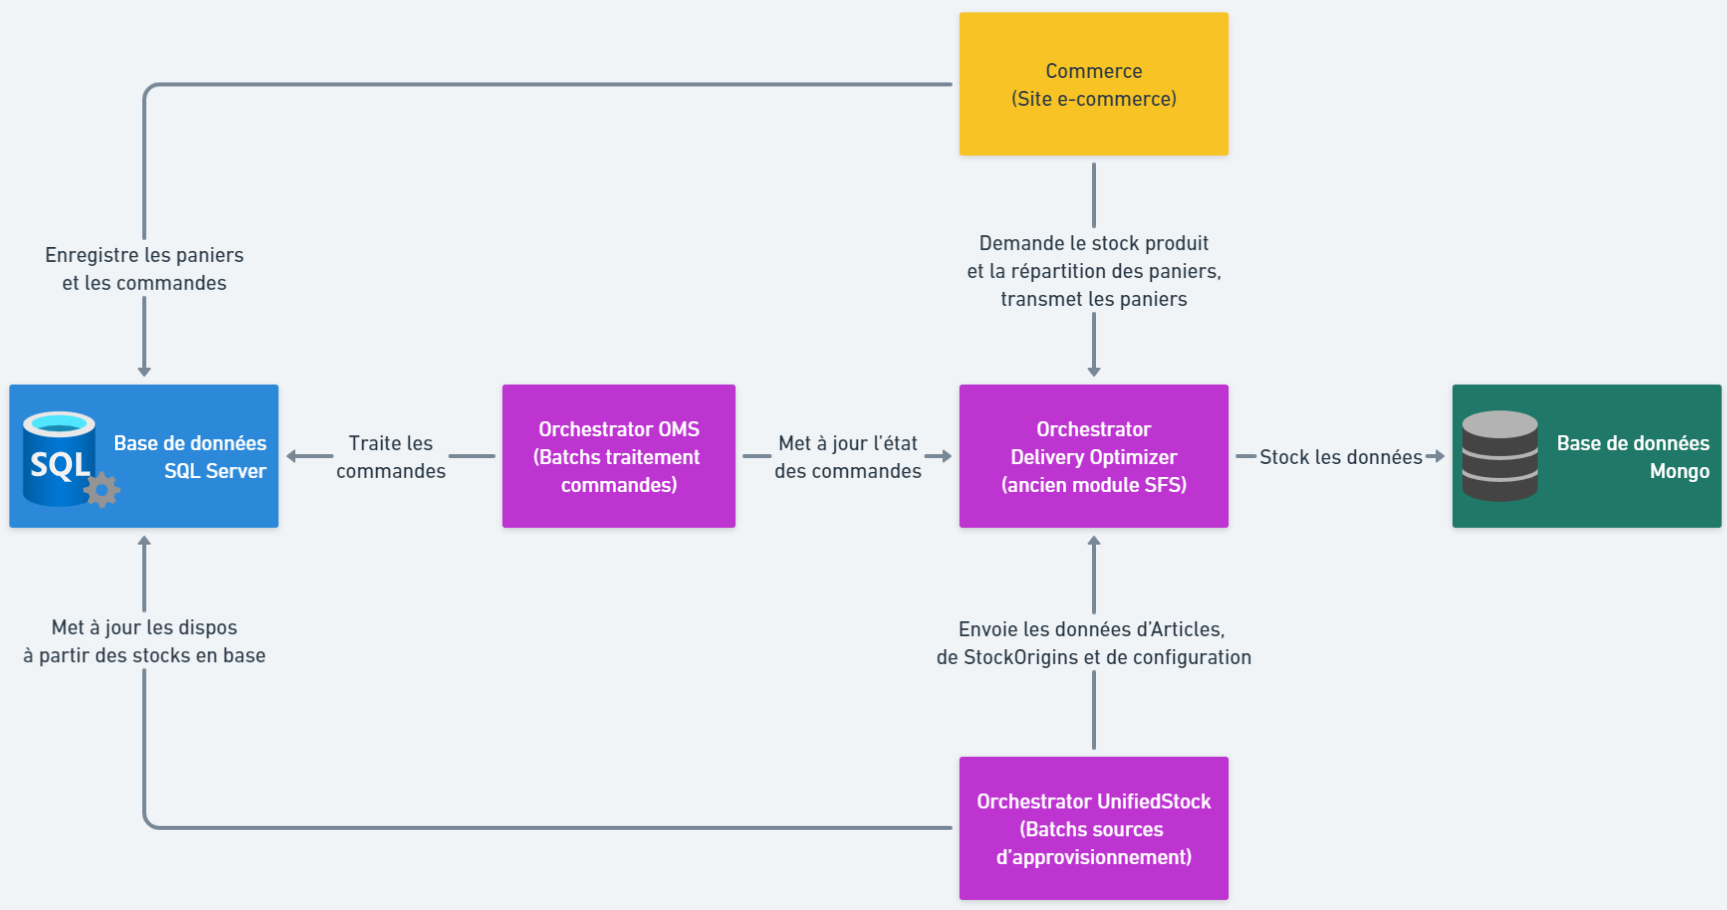
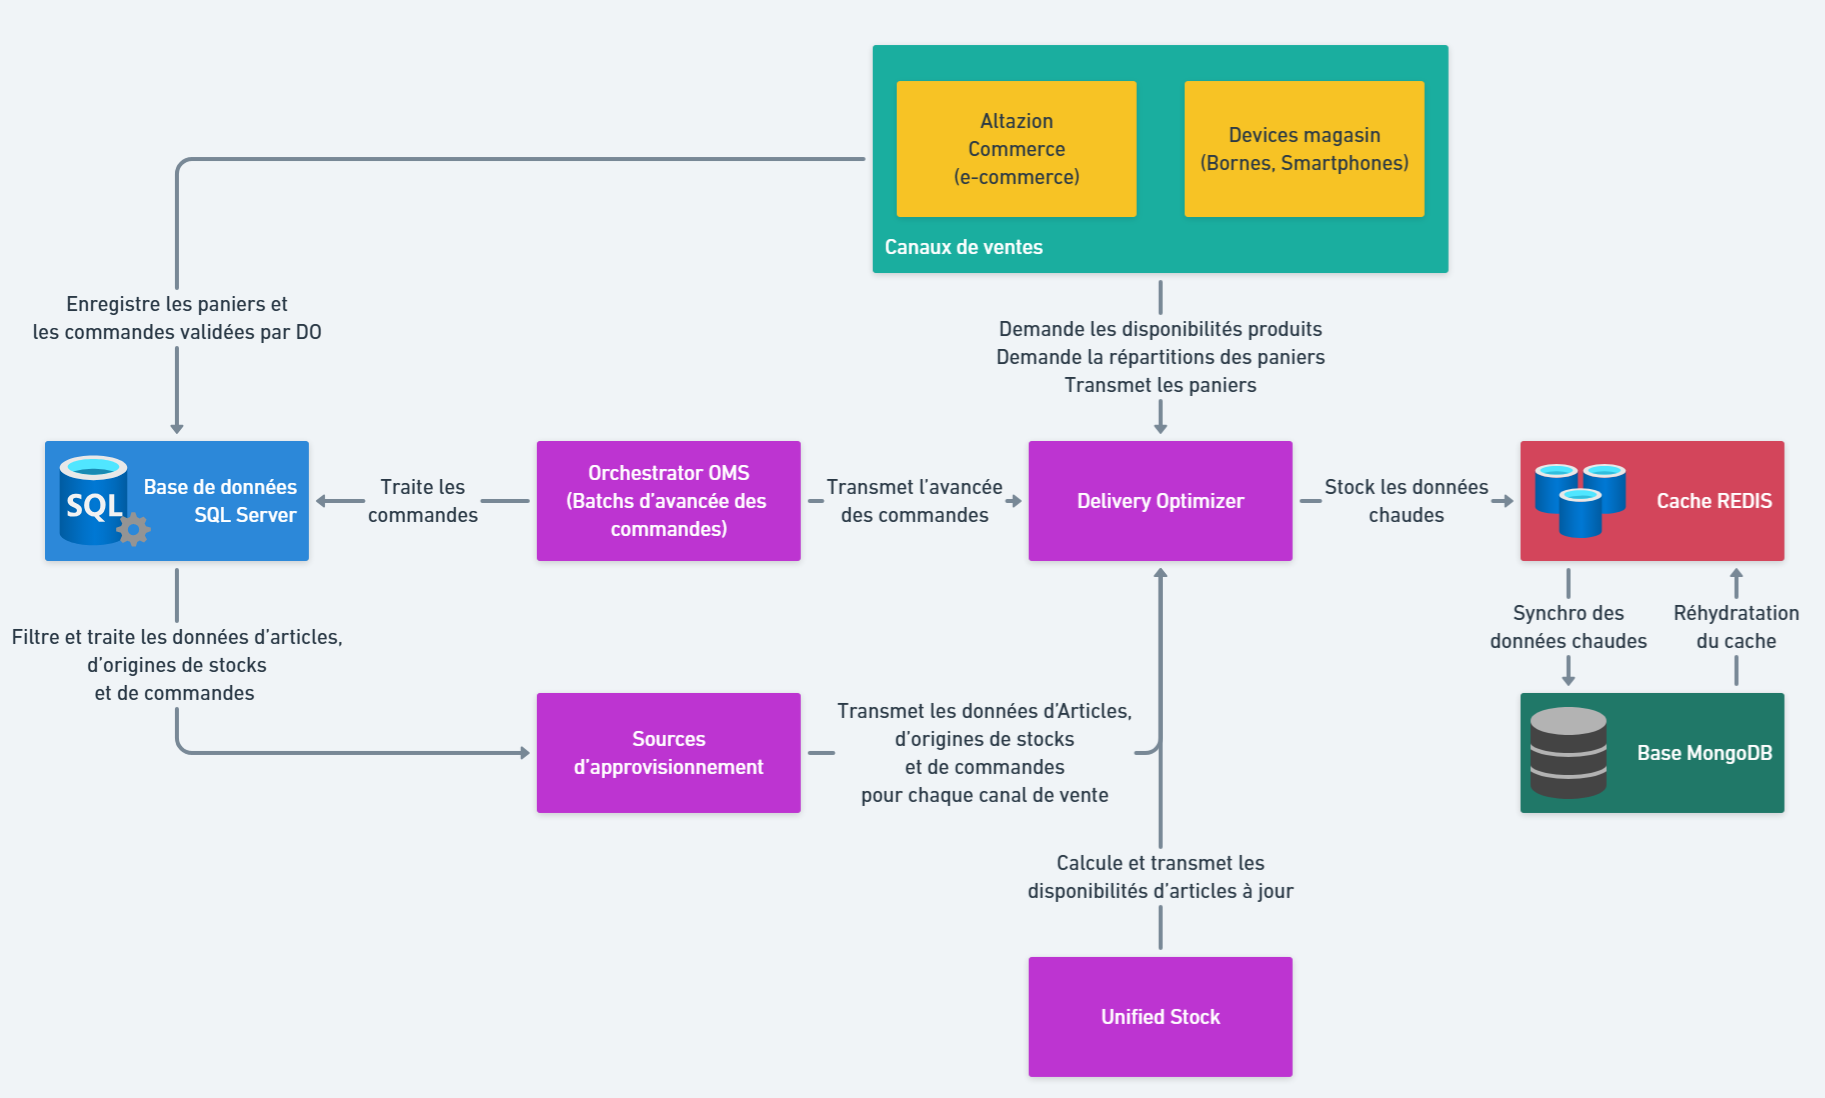
Mise à jour doc Delivery Optimizer

Changed region(s): [[0.0, 0.0, 1.0, 1.0], [0.0, 0.2462, 0.1841, 0.3385]]

diff --git a/orchestrator/delivery-optimizer/commandes.md b/orchestrator/delivery-optimizer/commandes.md
@@ -1,20 +1,34 @@
 # Gestion des commandes
 
-## Ajout/Mise à jour d'une commande
+## Synchronisation périodique interne des commandes avec MongoDB
+
+Les commandes stockées dans REDIS doivent être régulièrement synchronisées avec MongoDB afin de garantir la persistance des données.
+Pour cela Delivery Optimizer déclenche un batch de synchronisation toutes les dix minutes. Celui-ci va, pour chaque raison juridique (tenant) exécuter les opérations suivantes :
+
+- Regarder si sa __ConfigDo.enableInternalOrderSync__ est positionnée à true, si non, le traitement s'arrête pour se tenant et le batch passe au tenant suivant.
+- Récupérer les commandes en cours sur REDIS.
+- Enregistrer ces commandes dans MongoDB.
+
+Vous pouvez désactiver cette synchronisation automatique en positionnant __ConfigDo.enableInternalOrderSync__ à false.
+
+## Upsert (Ajout/Mise à jour) d'une commande
 
 __POST : {tenantId}/order__
 
-Cette fonction reçoit un objet de type __Order__ (en format JSON dans le body de la requête) et l'ajoute en base si elle n'existe pas ou la __redéfini entièrement__ si elle existe en patchant les __Articles__ et __StockOrigins__ concernés.
+Cette fonction reçoit un objet de type __Order__ (en format JSON dans le body de la requête) et l'ajoute en base si elle n'existe pas ou la __redéfini entièrement__ si elle existe.
 
 ### Exemple d'appel API
 
-L'exemple ci-dessous décrit l'objet __Order__ à passer dans le body et les champs qu'il contient. Tous les champs sont __obligatoires__
+L'exemple ci-dessous décrit l'objet __Order__ à passer dans le body et les champs qu'il contient. Tous les champs excepté __expiresAt__ sont __obligatoires__
 
 ```json
 {
   "orderId": "3fa85f64-5717-4562-b3fc-2c963f66afa6",
+  "tenantId": 0,
+  "lastUpdated": "2025-09-22T10:01:20.624Z",
+  "expiresAt": "2025-09-23T11:01:20.624Z",
   "type": "Order",
-  "details": [
+  "lines": [
     {
       "code": "FRA:MAG:0125",
       "artGuid": "c420a0b0-fd50-446a-b2e0-18ab3bf4c460",
@@ -28,8 +42,8 @@ L'exemple ci-dessous décrit l'objet __Order__ à passer dans le body et les cha
   ]
 }
 ```
-Le champ __orderId__ contient le Guid de la commande et __type__ contient le type de commande (Order, Cart ou ExternalOrder).
-Le contenu de la commande se trouve dans le champ __details__. Il s'agit d'un tableau de __OrderDetail__ structuré comme ceci :
+Le champ __orderId__ contient le Guid de la commande, __tenantId__ l'identifiant du client. __type__ correspond au le type de commande (Order, Cart ou ExternalOrder). __lastUpdated__ indique la dernière date de modification de la commande et __expiresAt__ (optionnel) sa date d'expiration si elle est renseignée.
+Le contenu de la commande se trouve dans le champ __lines__. Il s'agit d'un tableau de __OrderLine__ structuré comme ceci :
  - __code__ qui correspond au code de l'origine de stock qui traitera l'article
  - __artGuid__, l'identifiant unique de l'article à traiter
  - __qty__, la quantité d'article à expédier
@@ -37,17 +51,13 @@ Le contenu de la commande se trouve dans le champ __details__. Il s'agit d'un ta
 
 ### Réponse du serveur
 
-La méthode renvoie un booléen pour indiquer le succès de l'opération.
+La méthode renvoie un booléen : True si la commande a été ajoutée, false si elle existait déjà et a été modifiée
 
 ## Replacement de toutes les commandes
 
-__PATCH : {tenantId}/orders__
+__PUT : {tenantId}/orders__
 
-Cette fonction reçoit un tableau d'objets de type __Order__ (en format JSON dans le body de la requête). Elle permet de remplacer __toutes__ les commandes contenues dans les __Articles__ et __StockOrigins__ par celles envoyées dans le body.
-
-Un paramètre "isFull" peut-être passé dans la requête. Dans le cas d'une valeur à "true", la fonction va également supprimer __toutes__ les commandes précédemment enregistrées dans __l'intégralité__ des __Articles__ et __StockOrigins__.
-
-__Attention :__ Cette méthode n'est à utiliser que si vous avez besoin de réinitialiser les commandes dans Delivery Optimizer. De plus, le passage du paramètre isFull à "true" peut entrainer des lenteurs importantes sur la base. Cette méthode est donc à utiliser avec précaution et en dehors des heures de traffic importants.
+Cette fonction reçoit un tableau d'objets de type __Order__ (en format JSON dans le body de la requête). Elle permet de remplacer __toutes__ les commandes contenues dans les bases Redis et Mongo par celles envoyées dans le body.
 
 ## Suppression d'une commande
 
@@ -55,20 +65,20 @@ __DELETE : {tenantId}/order/byid/{idCommande}__
 
 Supprime une commande par son Guid. Cette méthode est typiquement utilisée lorsqu'un client décide de supprimer un panier en cours ou que le panier expire sur le site.
 
-La méthode renvoie un booléen pour indiquer le succès de l'opération.
+La méthode renvoie un booléen : True si la commande a été trouvée et supprimée, false si elle n'existe pas en base.
 
 ## Suppression d'une commande par code d'origine de stock
 
 __DELETE : {tenantId}/order/byid/{idCommande}/code/{code}__
 
-Lorsqu'une expédition est effectuée par une origine de stock il est nécessaire de supprimer la partie de la commande associée à cet emplacement (__OrderDetail__) afin d'en réduire la saturation. Pour cela on passe le tenantId, l'id de la commande ainsi que le code de l'origine de stock.
+Lorsqu'une expédition est effectuée par une origine de stock il est nécessaire de supprimer la partie de la commande associée à cet emplacement (__OrderLine__) afin d'en réduire la saturation. Pour cela on passe le tenantId, l'id de la commande ainsi que le code de l'origine de stock.
 
-Il est également judicieux d'utiliser cette méthode pour supprimer une commande de type e-resa (avec retrait en magasin) puisse que l'intégralité de la commande est expédiée par une origine de stock magasin dont on connait le code.
+Il est également judicieux d'utiliser cette méthode pour supprimer une commande de type e-resa (avec retrait en magasin) puisse que l'intégralité de la commande est expédiée par une origine de stock magasin dont on connait le code. À noter qu'une commande qui ne contient plus aucune ligne est supprimée.
 
-La méthode renvoie un booléen pour indiquer le succès de l'opération.
+La méthode renvoie un booléen : True si la commande a été trouvée et que les lignes ont été supprimées, false si elle n'existe pas en base.
 
 ## Récupération d'une commande par son Id
 
 __GET : {tenantId}/order/{orderId}__
 
-Permet d'obtenir un objet __Order__ décrivant l'état actuel d'une commande ou d'un panier ayant été enregistrée en base dans les __Articles__ et __StockOrigins__. L'état d'une commande varie au fur et à mesure que les __OrderDetail__ qui la compose sont expédiés.
+Permet d'obtenir un objet __Order__ décrivant l'état actuel d'une commande ou d'un panier ayant été enregistrée en base dans les __Articles__ et __StockOrigins__. L'état d'une commande varie au fur et à mesure que les __OrderLine__ qui la compose sont expédiés.

diff --git a/orchestrator/delivery-optimizer/presentationmodule.md b/orchestrator/delivery-optimizer/presentationmodule.md
@@ -5,7 +5,7 @@ Le module Delivery Optimizer (DO) intervient dans le cadre du commerce unifié e
 
 De cette façon, Delivery Optimizer permet par exemple d'expédier une partie d'une commande depuis un entrepôt et une autre depuis un ou plusieurs magasins. Le but étant de minimiser le nombre d'envois tout en répondant à d'autres critères tel que minimiser la distance entre les expéditeurs et le client.
 
-Pour chaque source d'approvisionnement, le module permet de :
+Pour chaque canal de vente, le module permet de :
 - Gérer les articles et leurs disponibilités à la vente
 - Gérer et paramétrer les origines de stocks
 - Gérer les commandes et paniers
@@ -40,15 +40,21 @@ Pour le configurer vous aurez besoin de fournir les variables d’environnements
 - DATADOG_KEY, qui est la clef d’accès à votre serveur
 - DATADOG_TAGS (optionnel), qui contient les tags séparés par des virgules.
 
-Le système de log du module DO possède deux niveaux de verbosité, normal et full. Le mode normal activé par défaut ne log que les informations relatives aux opérations d'écritures (ajout d'une commande, import d’Articles ou de StockOrigins, etc..). Le mode full log également les informations relatives aux actions de lecture (calcul des stocks, lecture en base, etc..) et est activé si la variable d'environnement DATADOG_FULL_VERBOSITY est présente et positionnée à "true".
+L’intégralité des logs est affichée dans la console du module.
 
-Dans tous les cas, l’intégralité des logs est affichée dans la console du module.
+## Stockage des données
 
-## Base de données Mongo
-Le module est prévu pour fonctionner avec une base de données Mongo en version 4.2 ou supérieur compatible avec les notions de replica sets et de sharded clusters.
+### Stockage des données chaudes dans REDIS
 
-La connexion à la base Mongo se fait grâce aux deux variables d’environnement suivantes :
-- AZURE_APPCONFIG qui contient l’adresse du Azure App Configuration contenant la connection string de la base Mongo.
+L'intégralité des données est stockée dans un cache REDIS en version 6.0 ou supérieure permettant au module de proposer une réactivité en temps réel et des performances accrues par rapport à un stockage traditionnel en base de données. Afin d'éviter d'éventuelles pertes de données, ces données sont régulièrement synchronisé avec une base MongoDB. 
+
+### Stockage des données froides dans MongoDB
+Le module est prévu pour fonctionner avec une base de données Mongo en version 4.2 ou supérieure compatible avec les notions de replica sets et de sharded clusters. Cette base permet de garder une trâce durable des données ainsi que de réhydrater le cache REDIS en cas d'arrêt de ce dernier.
+
+### Connexion aux bases
+
+La connexion à la base Mongo et au cache REDIS se fait grâce aux deux variables d’environnement suivantes :
+- AZURE_APPCONFIG correspondant l’adresse du Azure App Configuration qui contient les connection strings des bases de données.
 - AZURE_APPCONFIG_ENV qui contient l’environnement duquel récupérer la clef (DEV, PRODUCTION, etc…).
 
 ## Déploiement

diff --git a/orchestrator/delivery-optimizer/cycledeviedonnees.md b/orchestrator/delivery-optimizer/cycledeviedonnees.md
@@ -1,19 +1,19 @@
 # Cycle de vie des données
 
-Afin d’utiliser le module, des données concernant les articles et les origines de stocks doivent être synchronisées avec vos composants. Les données sur les articles et les origines de stocks doivent ainsi être récupérées depuis votre base et formatées avant être envoyées au module Delivery Optimizer (DO) en format JSON. 
+Afin d’utiliser le module, des données concernant les articles, les origines de stocks et les commandes doivent être synchronisées avec vos composants. Ces données doivent ainsi être récupérées depuis votre système d'information et formatées avant être envoyées au module Delivery Optimizer (DO) en format JSON (Échange Informatique de Données ou EDI). 
 
-Les sources d’approvisionnement disponibles dans les outils OMS d’Altazion permettent de configurer avec précision l’export des Articles et StocksOrigins vers le module et d’automatiser la procédure.
+Les sources d’approvisionnement disponibles dans les outils logisitiques d’Altazion permettent de configurer avec précision l’export des articles, des origines de stocks et des commandes vers le module et d’automatiser la procédure en toute simplicité.
 
-La gestion des données nécessite le droit OMS.
+Si vous n'utilisez pas les outils d'Altazion, il existe de nombreux points API couvrant les besoins en CRUD des origines de stocks (StockOrigins), Articles et commandes (OrderDo) dont les fonctions sont détaillées dans le swagger. Toutefois les points expliqués ci-dessous sont les plus importants à implémenter pour garantir le fonctionnement du module.
 
-Il existe de nombreux points API couvrant les besoins en CRUD des StockOrigins et Articles dont les fonctions sont détaillées dans le swagger. Toutefois les points expliqués ci-dessous sont les plus importants à implémenter pour garantir le fonctionnement du module.
+__À noter que la gestion des données nécessite le droit OMS.__
 
-## Import total des StockOrigins et des Articles dans le module
+## Import total des StockOrigins et des Articles dans Delivery Optimizer (DO)
 
 Ces points API sont la principale source de données du module DO et sont indispensables à son bon fonctionnement. Cet import a pour effet d’exécuter une transaction supprimant toutes les données de la raison juridique concernée avant d’insérer les nouvelles données passées en format JSON.
 
 Il est recommandé :
-- De réaliser les imports d’Articles et de StockOrigins à la suite
+- De réaliser les imports à la suite
 - D’automatiser l’import de données durant une heure de faible utilisation du module (la nuit par exemple)
 - De disposer de méthodes robustes d’export de vos données depuis vos composants vers le module DO si vous n’utilisez pas la solution Altazion
 - D’utiliser l’import total avec parcimonie pour limiter l’impact sur les performances, en particulier si vous disposer d’un gros volume de données à importer

diff --git a/orchestrator/delivery-optimizer/raisonjuridiqueetconfig.md b/orchestrator/delivery-optimizer/raisonjuridiqueetconfig.md
@@ -20,17 +20,17 @@ __PUT : {tenantId}/sfs-config__
 
 __PUT : {tenantId}/config__
 
-![Point API Swagger de config du module DO](img/SwaggerSfsConfig.png)
+![Point API Swagger de config du module DO](img/SwaggerDoConfig.png)
 
 Pour utiliser ce point, il est nécessaire de passer un objet de type __ConfigDo__ dans le body de la requête. 
 
 L'objet __ConfigDo__ contient les champs suivants :
 
-- __cartLifeSpan__ (défaut : 15). Détermine la durée de validité en minutes d'un panier. Lorsqu'elle est dépassée, les stocks réservés par le panier ne sont plus compatibilisés par Delivery Optimizer. Tous les paniers n'ayant pas été mis à jour depuis 2 fois la valeur __cartLifeSpan__ sont progressivement supprimés.
+- __cartLifeSpan__ (défaut : 15). Détermine la durée de validité en minutes d'un panier. Lorsqu'elle est dépassée, les stocks réservés par le panier ne sont plus compatibilisés par Delivery Optimizer et le panier est supprimé.
 - __algoType__ (défaut : "PUSH"). Détermine le type d'algorithme utilisé par Delivery Optimizer. À ce jour, seul l'algorithme PUSH existe.
 - __maxOrderable__ (défaut : "MINIMUM). Détermine la méthode de calcul de la quantité maximum de stock commandable pour un produit.
-- __bigCartThreshold__ (défaut : 15). Détermine à partir de combien de lignes panier l'algorithme de répartition doit utiliser les précédents calculs de répartition afin d'accélérer le traitement du panier/de la commande.
 - __maxShipments__ (défaut : illimité). Détermine le nombre maximum d'expéditions différentes pour une commande/un panier. Autrement dit, il s'agit du nombre maximum d'origines de stock différentes qui peuvent être sollicitées pour le traitement d'une commande/un panier. Concrètement, il s'agit de la taille maximum du tableau __DoResponse.splits__. Si ce nombre est dépassé, toutes les lignes du panier sont concidérées comme étant non expédiables et sont donc renvoyées dans le champ __DoResponse.nonShippable__.
+- __enableInternalOrderSync__ (défaut : false). Si true, active la synchronisation périodique interne au module des commandes contenus dans REDIS vers MongoDB. À mettre à false si vous utilisez une méthode de synchronisation externe, via un batch ou le point API de synchro des commandes par exemple.
 
 Comme pour tous les autres points API, vous pouvez retrouver la définition de l'objet en anglais dans le swagger du module :
 

diff --git a/orchestrator/delivery-optimizer/repartition.md b/orchestrator/delivery-optimizer/repartition.md
@@ -53,7 +53,7 @@ Le JSON suivant contient décrit l'objet __Cart__ à passer dans le body de l'ap
   "orderType": "Order"
 }
 ```
-Le champ __Cart.articles__ est obligatoire car il contient les différentes lignes du panier (__CartLine__). Pour qu'une ligne soit valide, l'un des champs __artGuid__ ou __artRef__ doit être renseigné ainsi que le champ __qty__ correspondant à la quantité de l'article commandé.
+Le champ __Cart.articles__ est obligatoire car il contient les différentes lignes du panier (__CartLine__). Pour qu'une ligne soit valide, l'un des champs __artGuid__ (le plus performant) ou __artRef__ (à limiter à des fins de tests) doit être renseigné ainsi que le champ __qty__ correspondant à la quantité de l'article commandé.
 
 Le champ __shippingAddress__ contient les coordonnées du client et doit également être renseigné.
 Enfin, il est nécessaire de renseigner à la fois le Guid de la commande via le champ __orderId__ ainsi que son type (__Cart__ ou __Order__) dans le champ __orderType__.
@@ -128,9 +128,3 @@ L'objet Cart permet également de limiter le calcul de répartitions à certaine
 Si l'objet __Cart__ en entrée a __isSimulated__ à true alors la commande n'est pas ajoutée après le calcul de la répartition. Autrement la commande est ajoutée si les champ __orderType__ et __orderId__ contenus dans le __Cart__ en entrée ne sont pas null.
 
 Simuler une commande peut être utile si cette dernière possède des contraintes d'expéditions particulières telle que la nécessité d'être expédiée depuis une seule origine de stocks par exemple.
-
-## Ajout de détails pour simplifier le débogage et l'intégration du calcul de répartitions
-
-Si l'objet __Cart__ en entrée possède le champ __isDebug__ à true, l'algorithme va également fournir les 5 meilleures expéditions suivantes résultant au même nombre d'expéditions. Elles seront renvoyées dans la liste __SFSResponse.otherSuggestedShipments__. Un dictionnaire contenant le détail des stocks disponibles des articles du panier pour chaque origine de stocks est également fourni.
-
-__Pour des question de performance, il est déconseillé de laisser ce champ à true en production.__

diff --git a/orchestrator/sources-appro/traitements.md b/orchestrator/sources-appro/traitements.md
@@ -32,6 +32,7 @@ Altazion dispose d'une liste de traitements standards permettant de couvrir la p
 | TraitementPrixWebPromo.cs | Magasin | int SitePk | Ignore les stocks magasin d'un article si son prix WEB est en promo |
 | TraitementQteMinMax.cs | - | decimal? QteMin, decimal? QteMax| Compléte les quantités minimum et maximum des stocks concernées |
 | TraitementVitrine.cs | - | Guid VitrineId | Ignore les stocks de tous les articles se trouvant dans une vitrine dont le GUID est passé en paramètre |
+| TraitementHorsVitrine.cs | - | Guid VitrineId | Ignore les stocks de tous les articles ne se trouvant pas dans la vitrine passée en paramètre |
 
 ### Traitements spécifiques client
 

diff --git a/orchestrator/delivery-optimizer/stocks.md b/orchestrator/delivery-optimizer/stocks.md
@@ -24,7 +24,6 @@ L'objet __StockQuery__ permet de limiter la recherche des stocks à certaines or
 
  - __MINIMUM__ : Correspond au stock de l'origine de stock où il est le plus faible
  - __MAXIMUM__ : Correspond au stock de l'origine de stock où il est le plus élevé
- - __TOP70PCT__ : Prend 70% du stock de l'origine de stock où il est le plus élevé
 
 ##  Obtenir les stocks pour un article
 __POST : {tenantId}/stocks__
